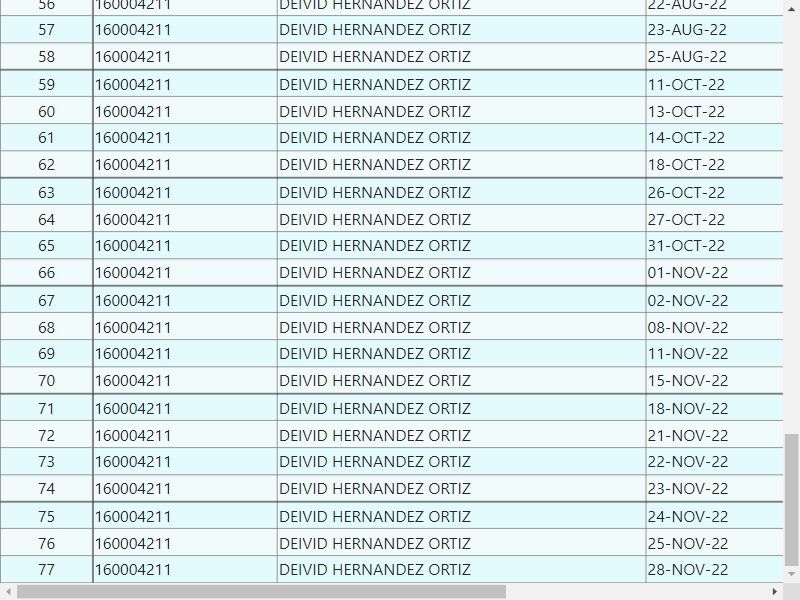
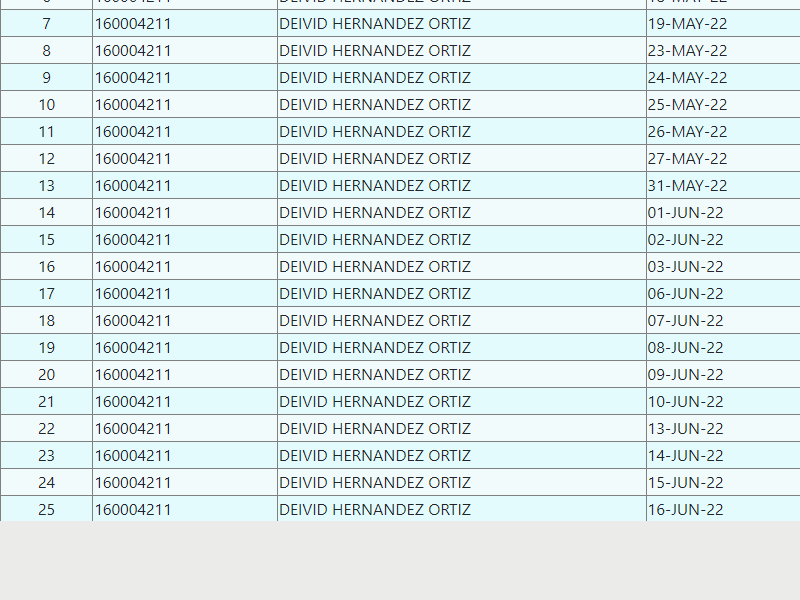
! actualizando cambios !

Changed region(s): [[0.0, 0.0, 1.0, 1.0], [0.0312, 0.9, 0.0625, 0.93]]

diff --git a/Automazacion-JavaScript/screenshot.js b/Automazacion-JavaScript/screenshot.js
@@ -2,18 +2,26 @@ const puppeteer = require('puppeteer');
 
 
 (async()=>{
-    const browser = await puppeteer.launch({headless: false});
+    const browser = await puppeteer.launch({headless: true});
     const pageVerificador1= await browser.newPage();
     await pageVerificador1.goto('https://actualizacion.unillanos.edu.co/comedor/reporteindividual.php?id=100062595');
     await pageVerificador1.keyboard.press('End');
-    console.log("1");
-    function Esperar(){
-        console.log("espera 4 segundos");
-    }
-    setTimeout(Esperar,4000);
-    console.log("2");
-    await pageVerificador1.screenshot({path: 'prueba.png'});
-    console.log("3");
+    const fechas1 =await pageVerificador1.evaluate(()=>{
+        const elements= document.querySelectorAll('#excel > table > tbody > tr > td:nth-child(4)');
+        const fechas =[];
+        for (element of elements) {
+            fechas.push(element.innerText);
+        }
+        return fechas;
+    });
 
+    console.log(fechas1[fechas1.length-1]);
+
+    //lee los datos de un json
+    
+    //
+    await pageVerificador1.screenshot({path: 'prueba.png'});
+
+    await browser.close();
     //const screenshot =setInterval (await pageVerificador1.keyboard.press('End'),2000);
 })();

diff --git a/Automazacion-JavaScript/json.js b/Automazacion-JavaScript/json.js
@@ -1,0 +1,23 @@
+const fs= require('fs');
+
+
+//lee la informacion del json
+
+let jsonData = require('./JSON/registro.json');
+console.log(jsonData);
+
+//jsonData.NumeroObjetos=jsonData.NumeroObjetos+1;
+nuevaFecha='fecha-nuevqa';
+nuevoValor=[]
+jsonData.registros.push(nuevoValor);
+jsonData.registros[jsonData.NumeroObjetos].fecha=nuevaFecha;
+
+console.log(jsonData.registros[1].fecha);
+
+//NuevoJason=jsonData;
+
+//console.log(NuevoJason);
+//console.log(typeof(NuevoJason));
+
+
+//escribe informacion en el json
